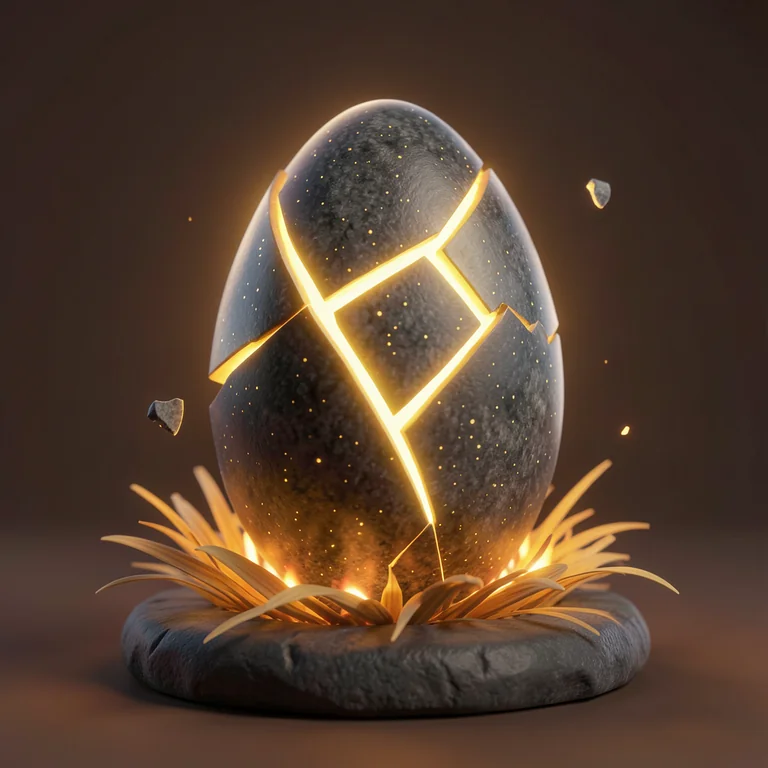
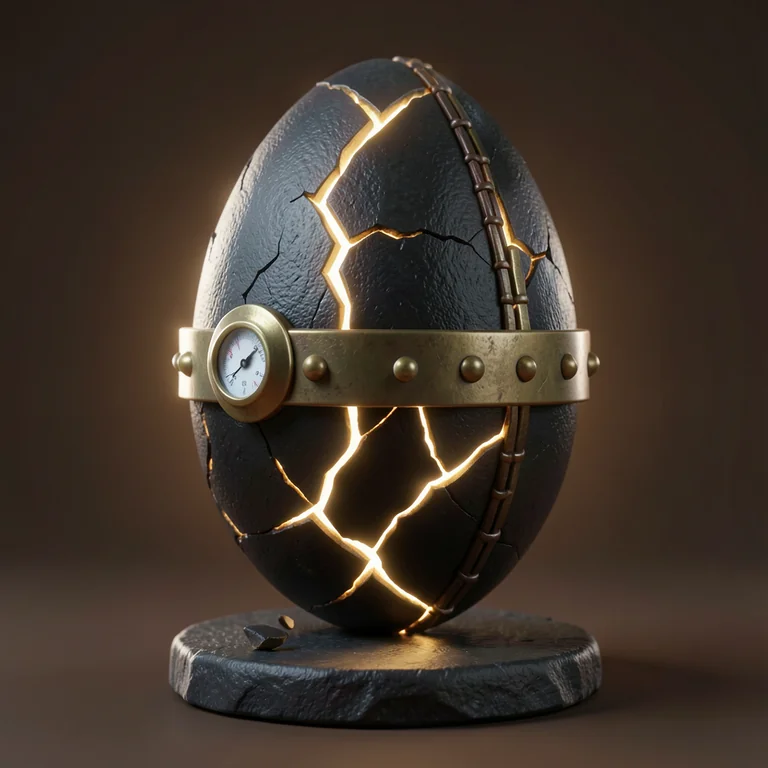
Station creature art: the six approved species (tortoise, stag, bear, wolf with seven forms, bull, squirrel) and the neutral egg (awaiting approval) from creatures-v5; the burst egg scaled to match the other egg stages; manifest

diff --git a/css/cas-desk.css b/css/cas-desk.css
@@ -467,7 +467,7 @@ html[data-mode="professional"] .cr-tile, html[data-mode="professional"] .dk-rewa
 .cr-cheer-words, .cr-hatch-words { font: 900 14px var(--dk-ui); color: var(--dk-brass-hi, #ffe4a1); text-align: center; }
 .cr-hatch { position: fixed; left: 50%; bottom: calc(92px + var(--sab, 0px)); z-index: 61; transform: translateX(-50%); width: min(86vw, 340px); display: flex; flex-direction: column; align-items: center; gap: 6px; padding: 12px; border-radius: 14px; border: 2px ridge var(--dk-brass, #c8963c); background: #1c1409f2; pointer-events: none; font-family: var(--dk-ui); animation: cr-hatch-card 6s linear 1 both; }
 .cr-hatch-stage { position: relative; width: 150px; height: 150px; display: grid; place-items: center; }
-.cr-hatch-egg { position: absolute; inset: 0; width: 100%; height: 100%; object-fit: cover; border-radius: 12px; animation: cr-hatch-egg 6s linear 1 both; }
+.cr-hatch-egg { position: absolute; inset: -9%; width: 118%; height: 118%;   /* the burst egg is drawn about 17% smaller in its frame than the other four stages: scaled to match */ object-fit: cover; border-radius: 12px; animation: cr-hatch-egg 6s linear 1 both; }
 .cr-hatch-born { position: absolute; inset: 0; margin: auto; width: 150px !important; height: 150px !important; animation: cr-hatch-born 6s linear 1 both; }
 .cr-hatch-flash { position: absolute; inset: -10px; border-radius: 50%; background: radial-gradient(circle, #fff7d6, #ffd24a88 45%, transparent 70%); opacity: 0; animation: cr-hatch-flash 6s linear 1 both; }
 @keyframes cr-hatch-card { 0% { opacity: 0; } 5%, 92% { opacity: 1; } 100% { opacity: 0; } }

diff --git a/js/cas-creature-logic.js b/js/cas-creature-logic.js
@@ -1,5 +1,5 @@
 // The creature on the Desk: what the server's GET /api/creature says, checked, and the words and numbers the tile and the Den draw. No page code here.
-export const SPECIES = { lava: 'Lava tortoise', stag: 'Storm stag', moss: 'Moss bear', wolf: 'Clockwork wolf', bull: 'Iron bull' };
+export const SPECIES = { lava: 'Lava tortoise', stag: 'Storm stag', moss: 'Moss bear', wolf: 'Clockwork wolf', bull: 'Iron bull', squirrel: 'Steampunk squirrel' };
 export const STAGES = { hatchling: 'Hatchling', juvenile: 'Juvenile', adult: 'Adult', grown: 'Grown' };
 export const RARITIES = { common: 'Common', uncommon: 'Uncommon', rare: 'Rare', epic: 'Epic', legendary: 'Legendary' };
 export const MOODS = ['awake', 'drowsy', 'sleeping', 'curled'];
